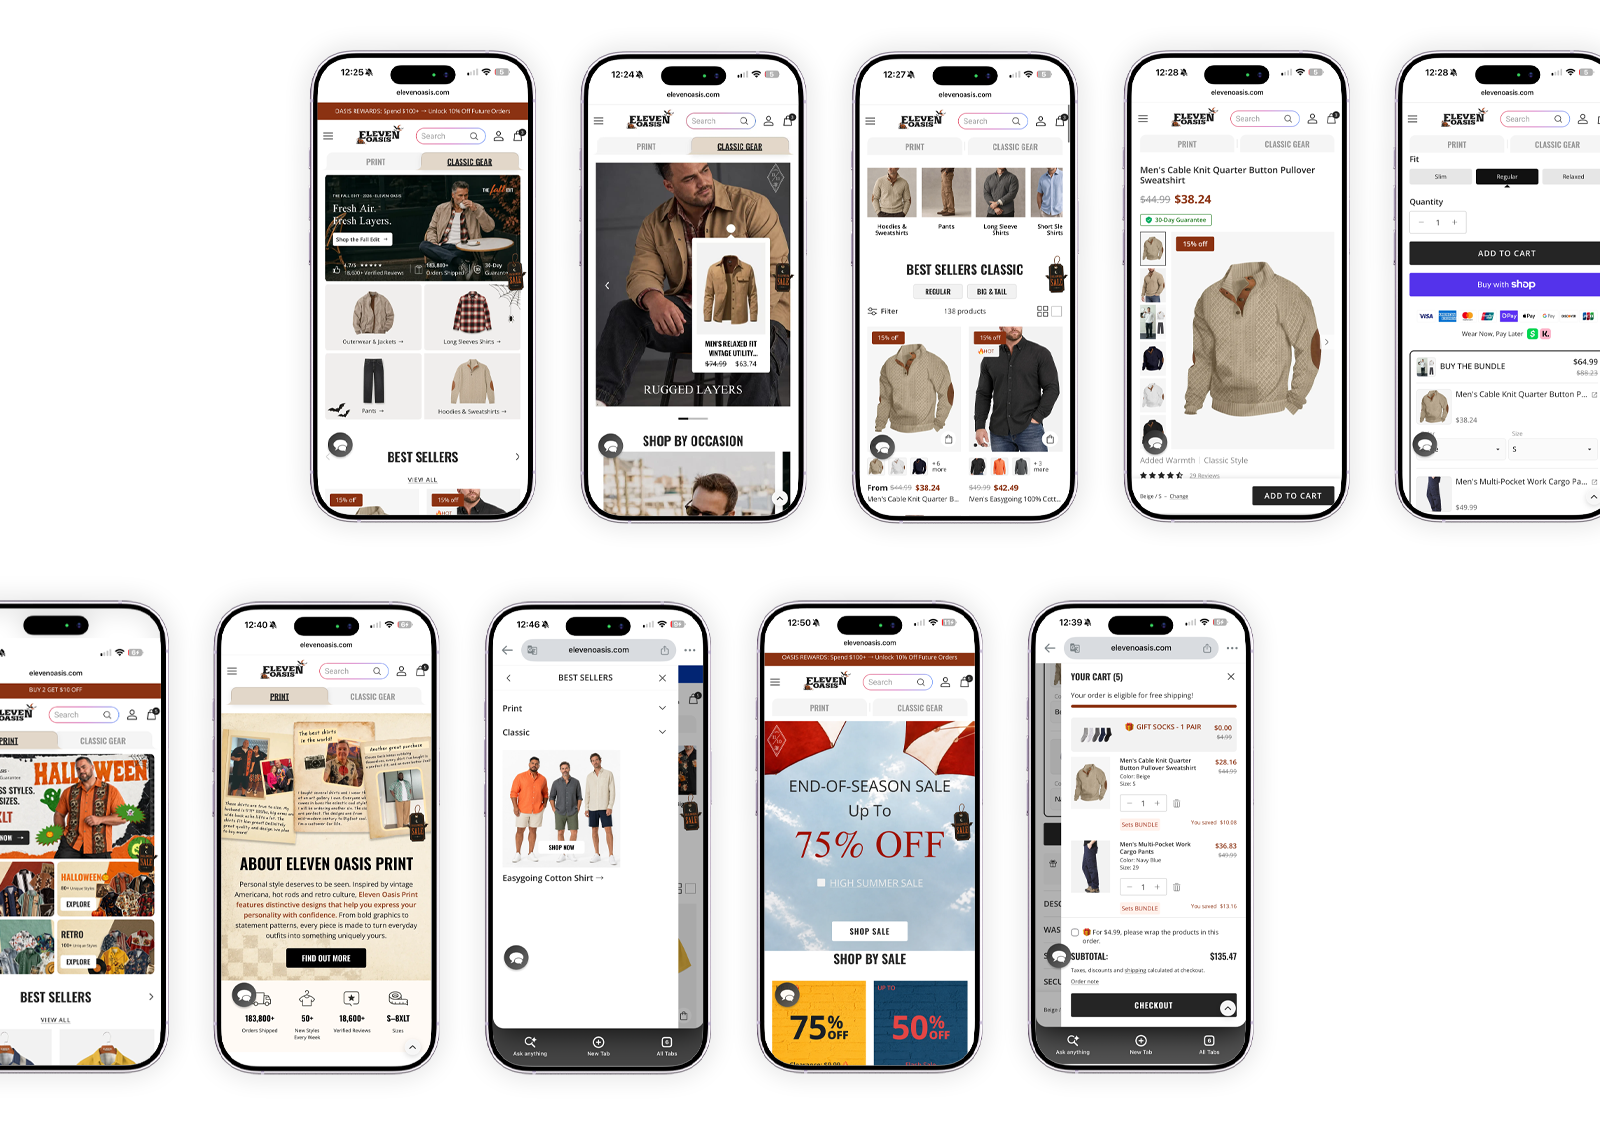
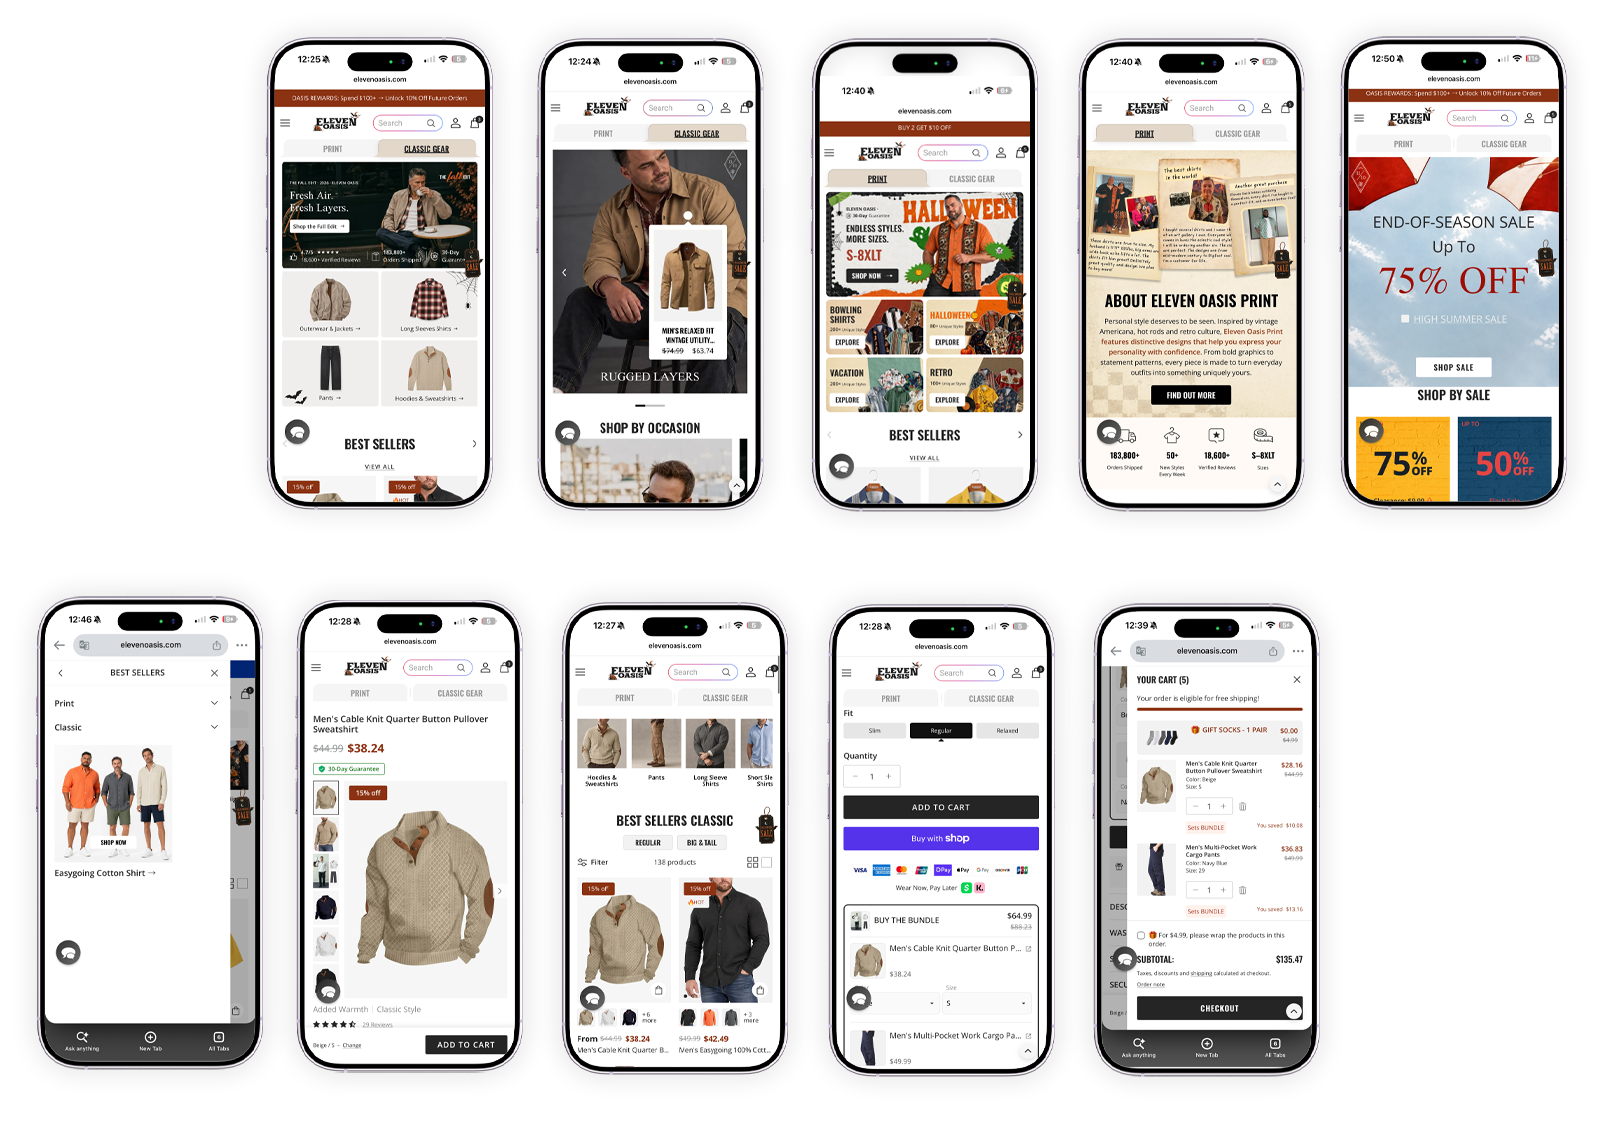
Add interactive Eleven Oasis mobile shopping journey

diff --git a/src/components/eleven-oasis/ElevenOasisMobileBrowsing.tsx b/src/components/eleven-oasis/ElevenOasisMobileBrowsing.tsx
@@ -1,70 +1,120 @@
 "use client";
 
 import Image from "next/image";
-import { useEffect, useRef } from "react";
-import { mobileBrowsing } from "@/data/eleven-oasis-case-study";
+import { useEffect, useRef, useState } from "react";
+import { journeyPhones, journeyStages, type JourneySelection } from "@/data/eleven-oasis-mobile-journey";
+import "./ElevenOasisMobileBrowsing.css";
 
-export function ElevenOasisMobileBrowsing() {
-  const figure = useRef<HTMLElement>(null);
-  const reveal = useRef<HTMLDivElement>(null);
+/** Uses the site's native <dialog> lightbox pattern, scoped to this gallery. */
+function PhonePreview({ initialIndex, onClose }: { initialIndex: number; onClose: () => void }) {
+  const [index, setIndex] = useState(initialIndex);
+  const dialog = useRef<HTMLDialogElement>(null);
+  const active = journeyPhones[index];
+  const navigate = (direction: number) => setIndex(current => (current + direction + journeyPhones.length) % journeyPhones.length);
 
   useEffect(() => {
-    const container = figure.current;
-    const target = reveal.current;
+    const element = dialog.current;
+    if (!element) return;
+    const trigger = document.activeElement as HTMLElement | null;
+    const overflow = document.body.style.overflow;
+    const padding = document.body.style.paddingRight;
+    const gutter = window.innerWidth - document.documentElement.clientWidth;
+    element.showModal();
+    document.body.style.overflow = "hidden";
+    if (gutter) document.body.style.paddingRight = `${parseFloat(getComputedStyle(document.body).paddingRight) + gutter}px`;
+    return () => {
+      element.close();
+      document.body.style.overflow = overflow;
+      document.body.style.paddingRight = padding;
+      trigger?.focus({ preventScroll: true });
+    };
+  }, []);
+
+  return (
+    <dialog ref={dialog} className="eleven-phone-dialog" aria-labelledby="eleven-phone-preview-label"
+      onClose={onClose}
+      onClick={event => { if (event.target === event.currentTarget) event.currentTarget.close(); }}
+      onKeyDown={event => {
+        if (event.key === "Tab") {
+          const controls = Array.from(event.currentTarget.querySelectorAll<HTMLButtonElement>("button:not([disabled])"));
+          const first = controls[0];
+          const last = controls[controls.length - 1];
+          if (event.shiftKey && document.activeElement === first) {
+            event.preventDefault();
+            last?.focus();
+          } else if (!event.shiftKey && document.activeElement === last) {
+            event.preventDefault();
+            first?.focus();
+          }
+        }
+        if (event.key === "ArrowLeft" || event.key === "ArrowRight") {
+          event.preventDefault();
+          navigate(event.key === "ArrowRight" ? 1 : -1);
+        }
+      }}>
+      <div className="eleven-phone-preview-panel">
+        <div className="eleven-phone-preview-toolbar">
+          <p id="eleven-phone-preview-label" aria-live="polite">{index + 1} / {journeyPhones.length} · {active.label}</p>
+          <button type="button" autoFocus aria-label="Close phone preview" onClick={() => dialog.current?.close()}>Close ×</button>
+        </div>
+        <div className="eleven-phone-preview-image">
+          <Image key={active.id} src={active.src} width={active.width} height={active.height} alt={active.alt} sizes="(max-width: 600px) 85vw, 440px" />
+        </div>
+        <div className="eleven-phone-preview-controls">
+          <button type="button" onClick={() => navigate(-1)} aria-label="Previous phone">← Previous</button>
+          <button type="button" onClick={() => navigate(1)} aria-label="Next phone">Next →</button>
+        </div>
+      </div>
+    </dialog>
+  );
+}
+
+export function ElevenOasisMobileBrowsing() {
+  const gallery = useRef<HTMLUListElement>(null);
+  const finishReveal = useRef<() => void>(() => {});
+  const [stage, setStage] = useState<JourneySelection>("all");
+  const [selected, setSelected] = useState<number | null>(null);
+
+  useEffect(() => {
+    const container = gallery.current;
     const reduced = matchMedia("(prefers-reduced-motion: reduce)");
-    if (!container || !target || reduced.matches
-      || typeof IntersectionObserver === "undefined" || typeof target.animate !== "function") return;
-
-    let animation: Animation | null = null;
+    if (!container || reduced.matches || typeof IntersectionObserver === "undefined" || typeof container.animate !== "function") return;
+    const animations: Animation[] = [];
     let observer: IntersectionObserver | null = null;
-    let revealed = false;
-    const showImmediately = () => {
-      revealed = true;
+    let started = false;
+    const finish = () => {
+      started = true;
       observer?.disconnect();
-      animation?.cancel();
-      animation = null;
+      animations.forEach(animation => animation.cancel());
     };
-    const onPreferenceChange = () => {
-      if (reduced.matches) showImmediately();
-    };
-
+    finishReveal.current = finish;
+    const onPreferenceChange = () => { if (reduced.matches) finish(); };
     try {
-      observer = new IntersectionObserver(([entry]) => {
-        if (revealed || !entry.isIntersecting || entry.intersectionRatio < .15) return;
-        revealed = true;
+      // Each outer item owns entrance motion; its inner button owns stage styling.
+      // SSR and cancellation both leave the gallery visible without inline styles.
+      container.querySelectorAll<HTMLLIElement>("li").forEach((item, index) => {
+        const animation = item.animate([
+          { opacity: 0, transform: "translate3d(0, 20px, 0) scale(.985)" },
+          { opacity: 1, transform: "translate3d(0, 0, 0) scale(1)" },
+        ], { duration: 580, delay: index * 65, easing: "cubic-bezier(0.22, 1, 0.36, 1)", fill: "both" });
+        animation.pause();
+        animation.currentTime = 0;
+        animation.onfinish = () => animation.cancel();
+        animations.push(animation);
+      });
+      observer = new IntersectionObserver(entries => {
+        if (started || !entries.some(entry => entry.isIntersecting)) return;
+        started = true;
         observer?.disconnect();
-        if (reduced.matches) {
-          showImmediately();
-          return;
-        }
-        try {
-          animation?.play();
-        } catch {
-          showImmediately();
-        }
-      }, { threshold: .15 });
-      // The server-rendered image is visible by default. Only a successfully
-      // initialized client animation hides it; cancellation restores that base.
-      animation = target.animate([
-        { opacity: 0, transform: "translate3d(0, 24px, 0)" },
-        { opacity: 1, transform: "translate3d(0, 0, 0)" },
-      ], { duration: 700, easing: "cubic-bezier(0.22, 1, 0.36, 1)", fill: "both" });
-      animation.pause();
-      animation.currentTime = 0;
-      animation.onfinish = () => {
-        animation?.cancel();
-        animation = null;
-      };
-      // Observe the stable outer figure, not its translating wrapper, so the
-      // 15% threshold and shared media alignment stay independent of motion.
+        if (reduced.matches) { finish(); return; }
+        try { animations.forEach(animation => animation.play()); } catch { finish(); }
+      }, { threshold: .08 });
       observer.observe(container);
       reduced.addEventListener("change", onPreferenceChange);
-    } catch {
-      showImmediately();
-    }
-
+    } catch { finish(); }
     return () => {
-      showImmediately();
+      finish();
+      finishReveal.current = () => {};
       reduced.removeEventListener("change", onPreferenceChange);
     };
   }, []);
@@ -75,18 +125,28 @@ export function ElevenOasisMobileBrowsing() {
         <p className="eleven-journey-eyebrow">MOBILE SHOPPING JOURNEY</p>
         <h3 id="eleven-mobile-journey-title">From Discovery to Checkout</h3>
       </header>
-      <figure ref={figure} className="eleven-mobile-browsing">
-        <div ref={reveal} className="eleven-mobile-browsing-reveal">
-          <Image
-            className="eleven-mobile-browsing-image"
-            src={mobileBrowsing.src}
-            width={mobileBrowsing.width}
-            height={mobileBrowsing.height}
-            alt={mobileBrowsing.alt}
-            sizes="(max-width: 1000px) 92vw, (max-width: 2200px) 56vw, 1200px"
-          />
-        </div>
-      </figure>
+      <div className="eleven-journey-stages" role="group" aria-label="Highlight a mobile shopping stage">
+        {journeyStages.map(option => (
+          <button type="button" key={option.id} aria-pressed={stage === option.id} aria-controls="eleven-phone-gallery"
+            onClick={() => { finishReveal.current(); setStage(option.id); }}>{option.label}</button>
+        ))}
+      </div>
+      <p className="eleven-journey-caption" aria-live="polite">{journeyStages.find(option => option.id === stage)?.caption}</p>
+      <ul ref={gallery} id="eleven-phone-gallery" className="eleven-phone-gallery" aria-label="Mobile shopping screens in reading order">
+        {journeyPhones.map((phone, index) => (
+          <li key={phone.id} className="eleven-phone-reveal">
+            <button type="button" className="eleven-phone-trigger"
+              data-emphasis={stage === "all" ? "all" : phone.stages.includes(stage) ? "match" : "dim"}
+              aria-label={`Enlarge ${phone.label}`} aria-haspopup="dialog"
+              onFocus={() => finishReveal.current()}
+              onClick={() => { finishReveal.current(); setSelected(index); }}>
+              <Image src={phone.thumbnail} width={phone.thumbnailWidth} height={phone.thumbnailHeight} alt={phone.alt}
+                sizes="(max-width: 600px) 44vw, (max-width: 1000px) 28vw, 10vw" />
+            </button>
+          </li>
+        ))}
+      </ul>
+      {selected !== null && <PhonePreview initialIndex={selected} onClose={() => setSelected(null)} />}
     </section>
   );
 }

diff --git a/src/components/eleven-oasis/ElevenOasisMobileBrowsing.css b/src/components/eleven-oasis/ElevenOasisMobileBrowsing.css
@@ -1,0 +1,36 @@
+.eleven-journey-stages { display: flex; flex-wrap: wrap; gap: 4px; }
+.eleven-journey-stages button { min-height: 44px; padding: 8px 9px; border: 1px solid transparent; border-radius: 2px; background: #f6f6f6; color: #555; font: 400 10px/1.4 var(--sans); letter-spacing: .025em; white-space: nowrap; cursor: pointer; transition: color 200ms ease, background-color 200ms ease; }
+.eleven-journey-stages button[aria-pressed="true"] { background: #252525; color: #fff; }
+.eleven-journey-stages button:hover { border-color: #777; }
+.eleven-journey-caption { min-height: 3em; margin: 12px 0 16px; color: #666; font: 400 12px/1.5 var(--sans); }
+.eleven-phone-gallery { display: grid; grid-template-columns: repeat(6, minmax(0, 1fr)); gap: 12px 2px; margin: 0; padding: 0; list-style: none; }
+.eleven-phone-reveal { min-width: 0; }
+.eleven-phone-trigger { display: block; width: 100%; padding: 0; border: 0; border-radius: 2px; background: #fff; cursor: zoom-in; opacity: 1; transition: opacity 300ms ease-out, box-shadow 300ms ease-out; }
+.eleven-phone-trigger[data-emphasis="dim"] { opacity: .25; }
+.eleven-phone-trigger[data-emphasis="match"] { box-shadow: 0 0 0 1px #aaa; }
+.eleven-phone-trigger img { display: block; width: 100%; height: auto; }
+.eleven-journey-stages button:focus-visible, .eleven-phone-trigger:focus-visible, .eleven-phone-dialog button:focus-visible { outline: 2px solid #111; outline-offset: 3px; }
+.eleven-phone-dialog { position: fixed; inset: 0; width: 100%; max-width: none; height: 100%; height: 100dvh; max-height: none; margin: 0; padding: 20px; border: 0; background: transparent; color: #333; }
+.eleven-phone-dialog::backdrop { background: rgb(245 245 245 / .92); }
+.eleven-phone-dialog[open] { display: flex; align-items: center; justify-content: center; }
+.eleven-phone-preview-panel { display: flex; flex-direction: column; width: min(100%, 760px); height: 100%; max-height: 1100px; min-height: 0; padding: 12px 20px; background: #fff; box-shadow: 0 4px 40px #0000000a; }
+.eleven-phone-preview-toolbar, .eleven-phone-preview-controls { display: flex; align-items: center; justify-content: space-between; gap: 12px; flex-shrink: 0; }
+.eleven-phone-preview-toolbar p { margin: 0; font: 400 12px/1.5 var(--sans); }
+.eleven-phone-dialog button { flex-shrink: 0; min-height: 44px; min-width: 44px; padding: 8px; border: 0; background: transparent; color: #333; font: 400 12px/1.5 var(--sans); cursor: pointer; }
+.eleven-phone-dialog button:hover { color: #000; text-decoration: underline; text-underline-offset: 4px; }
+.eleven-phone-preview-image { display: flex; flex: 1; align-items: center; justify-content: center; min-height: 0; padding-block: 8px; }
+.eleven-phone-preview-image img { display: block; width: 100%; height: 100%; object-fit: contain; }
+@media (min-width: 601px) and (max-width: 1000px) {
+  .eleven-phone-gallery { grid-template-columns: repeat(4, minmax(0, 1fr)); gap: 12px 4px; }
+}
+@media (max-width: 600px) {
+  .eleven-phone-gallery { grid-template-columns: repeat(2, minmax(0, 1fr)); gap: 12px 4px; }
+  .eleven-journey-stages { flex-wrap: nowrap; overflow-x: auto; overscroll-behavior-x: contain; padding-bottom: 4px; }
+  .eleven-journey-stages button { flex-shrink: 0; }
+  .eleven-journey-caption { min-height: 4.5em; }
+  .eleven-phone-dialog { padding: 8px; }
+  .eleven-phone-preview-panel { padding: 8px; }
+}
+@media (prefers-reduced-motion: reduce) {
+  .eleven-phone-trigger, .eleven-journey-stages button { transition: none; }
+}

diff --git a/src/data/eleven-oasis-mobile-journey.ts b/src/data/eleven-oasis-mobile-journey.ts
@@ -1,0 +1,43 @@
+/** Verified against the uploaded PNGs and overview, read left to right, top to bottom.
+ * Thumbnails are derived only by proportional resizing; previews use original PNGs.
+ */
+export type JourneyStage = "discover" | "explore" | "evaluate" | "purchase";
+export type JourneySelection = "all" | JourneyStage;
+export const journeyStages: { id: JourneySelection; label: string; caption: string }[] = [
+  { id: "all", label: "ALL SCREENS", caption: "Explore all 11 screens. Select a stage to highlight its touchpoints, or select a phone for a closer look." },
+  { id: "discover", label: "01 / DISCOVER", caption: "Find the right collection and discover new styles." },
+  { id: "explore", label: "02 / EXPLORE", caption: "Explore relevant products through clearer browsing pathways." },
+  { id: "evaluate", label: "03 / EVALUATE", caption: "Review product information and make confident decisions." },
+  { id: "purchase", label: "04 / PURCHASE", caption: "Move from product selection to cart and checkout." },
+];
+export interface JourneyPhone {
+  id: number;
+  src: string;
+  thumbnail: string;
+  thumbnailWidth: number;
+  thumbnailHeight: number;
+  width: number;
+  height: number;
+  label: string;
+  alt: string;
+  stages: JourneyStage[];
+}
+const phone = (id: number, label: string, detail: string, stages: JourneyStage[]): JourneyPhone => ({
+  id, label, stages, width: 679, height: 1148, thumbnailWidth: 240, thumbnailHeight: 406,
+  src: `/projects/eleven-oasis/mobile/eleven-oasis-mobile-${id}.png`,
+  thumbnail: `/projects/eleven-oasis/mobile/phone-${id}-thumb.webp`,
+  alt: `${label} — ${detail}, inside the original iPhone frame`,
+});
+export const journeyPhones: JourneyPhone[] = [
+  phone(1, "Classic Gear Homepage", "seasonal hero, apparel category entry points and best sellers", ["discover", "explore"]),
+  phone(2, "Classic Gear Shoppable Campaign", "Rugged Layers campaign with a linked product card and shop-by-occasion entry", ["discover"]),
+  phone(3, "Print Homepage", "Halloween campaign, illustrated collection entry points and best sellers", ["discover", "explore"]),
+  phone(4, "About Eleven Oasis Print", "brand storytelling and customer reassurance", ["discover"]),
+  phone(5, "Seasonal Sale Homepage", "end-of-season campaign and shop-by-sale entry points", ["discover", "explore"]),
+  phone(6, "Collection Navigation", "open menu with Print, Classic and best-seller collection links", ["explore"]),
+  phone(7, "Classic Gear Collection", "category tiles, best-seller product grid, filter and size-range controls", ["explore"]),
+  phone(8, "Product Detail & Buy Box — View 1", "pullover images, price, guarantee, reviews, Beige / S selection and Add to Cart", ["evaluate", "purchase"]),
+  phone(9, "Product Detail & Buy Box — View 2", "another capture of the same pullover detail and persistent Add to Cart control", ["evaluate", "purchase"]),
+  phone(10, "Shopping Cart", "cart drawer with products, quantities, subtotal and Checkout entry", ["purchase"]),
+  phone(11, "Checkout Entry", "order summary, express payment choices, contact and delivery fields; no completed transaction shown", ["purchase"]),
+];

diff --git a/src/components/eleven-oasis/ElevenOasisCaseStudy.css b/src/components/eleven-oasis/ElevenOasisCaseStudy.css
@@ -22,9 +22,6 @@
 .eleven-desktop-journey > .eleven-journey-eyebrow { margin-bottom: 16px; }
 .eleven-mobile-journey { margin-top: clamp(40px, 4vw, 64px); }
 .eleven-mobile-journey h3 { margin: 12px 0 24px; color: #222; font: 600 clamp(24px, 2.2vw, 34px)/1.2 var(--sans); }
-.eleven-mobile-browsing { width: 100%; margin: 0; }
-.eleven-mobile-browsing-reveal { width: 100%; }
-.eleven-mobile-browsing-image { display: block; width: 100%; height: auto; }
 .eleven-problem .eleven-problem-headline { max-width: 390px; margin-top: 24px; font: 400 18px/1.5 Arial, Helvetica, sans-serif; letter-spacing: 0; }
 .eleven-problem-statements { margin: 28px 0 0; padding: 0; list-style: none; }
 .eleven-problem-statements li + li { margin-top: 22px; padding-top: 22px; border-top: 1px solid var(--folio-rule); }
